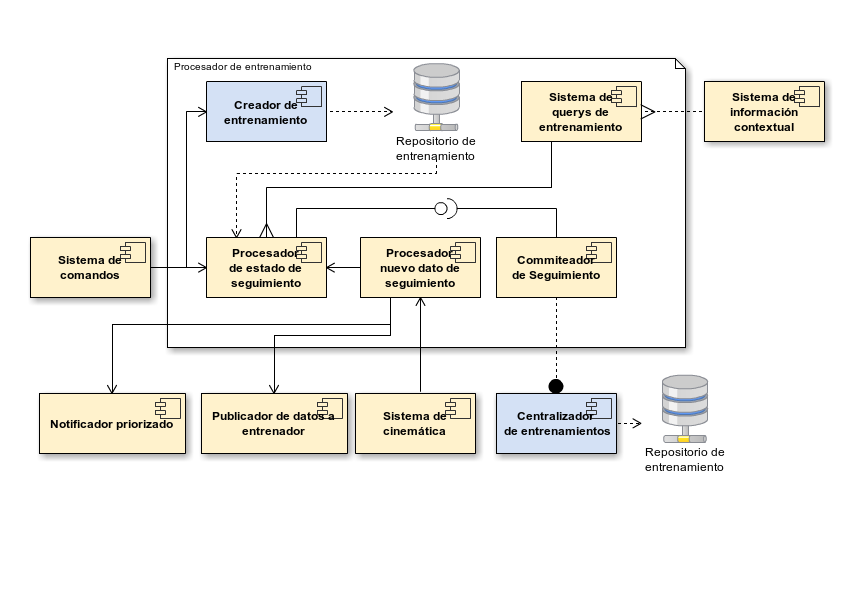
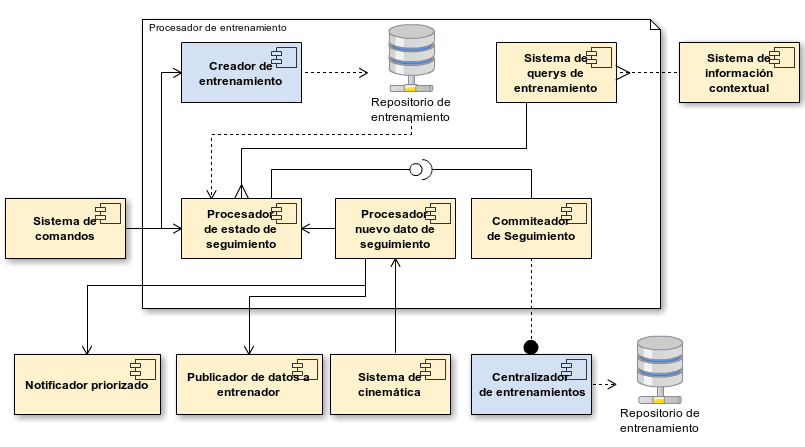
Editando imagenes para que entren

diff --git a/TP2/dispMedicos.tex b/TP2/dispMedicos.tex
@@ -1,7 +1,7 @@
 \subsection{Dispositivos biomédicos}
 \subsubsection{Diagrama}
 
-\ig{l}{0.8}{dispMedicos.png}{Diagrama de componentes y conectores del
+\ig{l}{0.7}{dispMedicos.png}{Diagrama de componentes y conectores del
 sistema de dispositivos biomédicos.}
 
 \subsubsection{Detalle}
@@ -65,7 +65,7 @@ módulo.
 Para dar un poco más de detalle al sistema de procesamiento de datos en
 la nube, incluimos el siguiente diagrama:
 
-\ig{p}{0.8}{procDatosMedicos.png}{Diagrama de componentes y conectores de procesamiento de datos médicos.}
+\ig{l}{0.6}{procDatosMedicos.png}{Diagrama de componentes y conectores de procesamiento de datos médicos.}
 
 En este se puede ver los componentes y conectores internos al sistema de
 procesamiento. Como podemos ver, el balanceador de carga toma la decisión

diff --git a/TP2/informe.tex b/TP2/informe.tex
@@ -62,23 +62,19 @@
 % }
 
 \newcommand{\ig}[4]{
-	\ifthenelse{\equal{#1}{l}}{\begin{landscape}
-		\begin{figure}[c]
+	\ifthenelse{\equal{#1}{l}}{
+		\begin{figure}[!ht]
+			\label{diag_diseno}
+			\includegraphics[angle=90,scale=#2]{images/#3}
+			\caption{#4}
+		\end{figure} 
+	}{
+		\begin{figure}[!ht]
 			\label{diag_diseno}
 			\includegraphics[scale=#2]{images/#3}
 			\caption{#4}
 		\end{figure} 
-	\end{landscape}
-	\newpage}{
-	\ifthenelse{\equal{#1}{p}}{
-		\begin{figure}[c]
-			\label{diag_diseno}
-			\includegraphics[scale=#2]{images/#3}
-			\caption{#4}
-		\end{figure} 
-	\newpage}
-	}	
-	
+	}		
 }
 
 % \parindent 0em

diff --git a/TP2/transmisionConfiable.tex b/TP2/transmisionConfiable.tex
@@ -1,7 +1,7 @@
 \subsection{Sistema de transmision confiable}
 \subsubsection{Diagrama}
 
-\ig{l}{0.9}{transmisionConfiable.png}{Diagrama de componentes y conectores del sistema de transmisión confiable.}
+\ig{p}{0.6}{transmisionConfiable.png}{Diagrama de componentes y conectores del sistema de transmisión confiable.}
 
 \subsubsection{Detalle}
 

diff --git a/TP2/informacionContextual.tex b/TP2/informacionContextual.tex
@@ -1,7 +1,7 @@
 \subsection{Información contextual}
 \subsubsection{Diagrama}
 
-\ig{l}{0.9}{informacionContextual.png}{Diagrama de componentes y conectores del sistema de información contextual.}
+\ig{l}{0.7}{informacionContextual.png}{Diagrama de componentes y conectores del sistema de información contextual.}
 
 \subsubsection{Detalle}
 

diff --git a/TP2/seguidorDeEntrenamiento.tex b/TP2/seguidorDeEntrenamiento.tex
@@ -1,7 +1,7 @@
 \subsection{Seguidor de entrenamiento y carrera virtual}
 \subsubsection{Diagrama}
 
-\ig{l}{0.9}{seguidorDeEntrenamiento.png}{Diagrama de componentes y
+\ig{l}{0.7}{seguidorDeEntrenamiento.png}{Diagrama de componentes y
 conectores del sistema de seguimiento de entrenamiento.}
 
 \subsubsection{Detalle}

diff --git a/TP2/cinematica.tex b/TP2/cinematica.tex
@@ -1,7 +1,7 @@
 \subsection{Sistema de cinemática}
 \subsubsection{Diagrama}
 
-\ig{l}{0.9}{sistemaDeCinematica.png}{Diagrama de componentes y conectores del sistema de cinemática}
+\ig{p}{0.55}{sistemaDeCinematica.png}{Diagrama de componentes y conectores del sistema de cinemática}
 
 \subsubsection{Detalle}
 

diff --git a/TP2/sistemaDeEntrada.tex b/TP2/sistemaDeEntrada.tex
@@ -1,7 +1,7 @@
 \subsection{Sistema de entrada de comandos}
 \subsubsection{Diagrama}
 
-\ig{l}{0.9}{sistemaDeEntrada.png}{Diagrama de componentes y conectores
+\ig{p}{0.55}{sistemaDeEntrada.png}{Diagrama de componentes y conectores
 del sistema de entrada al dispositivo.}
 
 \subsubsection{Detalle}

diff --git a/TP2/interfazConRedesSociales.tex b/TP2/interfazConRedesSociales.tex
@@ -1,7 +1,7 @@
 \subsection{Interfaz con redes sociales}
 \subsubsection{Diagrama}
 
-\ig{l}{0.9}{interfazRedesSociales.png}{Diagrama de componentes y
+\ig{l}{0.7}{interfazRedesSociales.png}{Diagrama de componentes y
 conectores de la interfaz con redes sociales.}
 
 \subsubsection{Detalle}

diff --git a/TP2/mapeadorDeNotificaciones.tex b/TP2/mapeadorDeNotificaciones.tex
@@ -1,7 +1,7 @@
 \subsection{Mapeador de notificaciones}
 \subsubsection{Diagrama}
 
-\ig{l}{0.9}{mapeadorDeNotificaciones.png}{Diagrama de componentes
+\ig{p}{0.55}{mapeadorDeNotificaciones.png}{Diagrama de componentes
 y conectores del sistema de notificaciones.}
 
 \subsubsection{Detalle}

diff --git a/TP2/diagramaGeneral.tex b/TP2/diagramaGeneral.tex
@@ -1,8 +1,7 @@
 \subsection{Diagrama general}
 \subsubsection{Diagrama}
 
-\ig{l}{0.9}{diagramaGeneral.png}{Diagrama de componentes y conectores
-general al sistema.}
+\ig{p}{0.5}{diagramaGeneral.png}{Diagrama de componentes y conectores general al sistema.}
 
 \subsubsection{Detalle}
 
